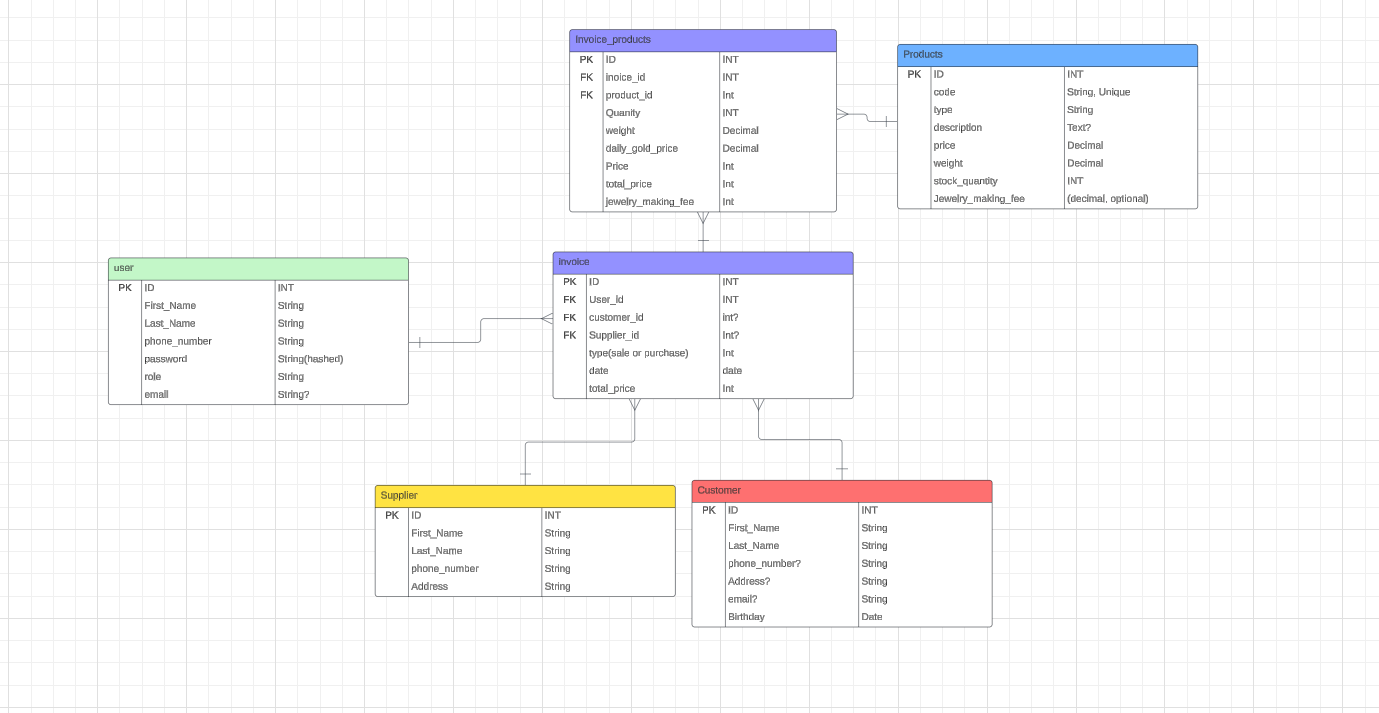
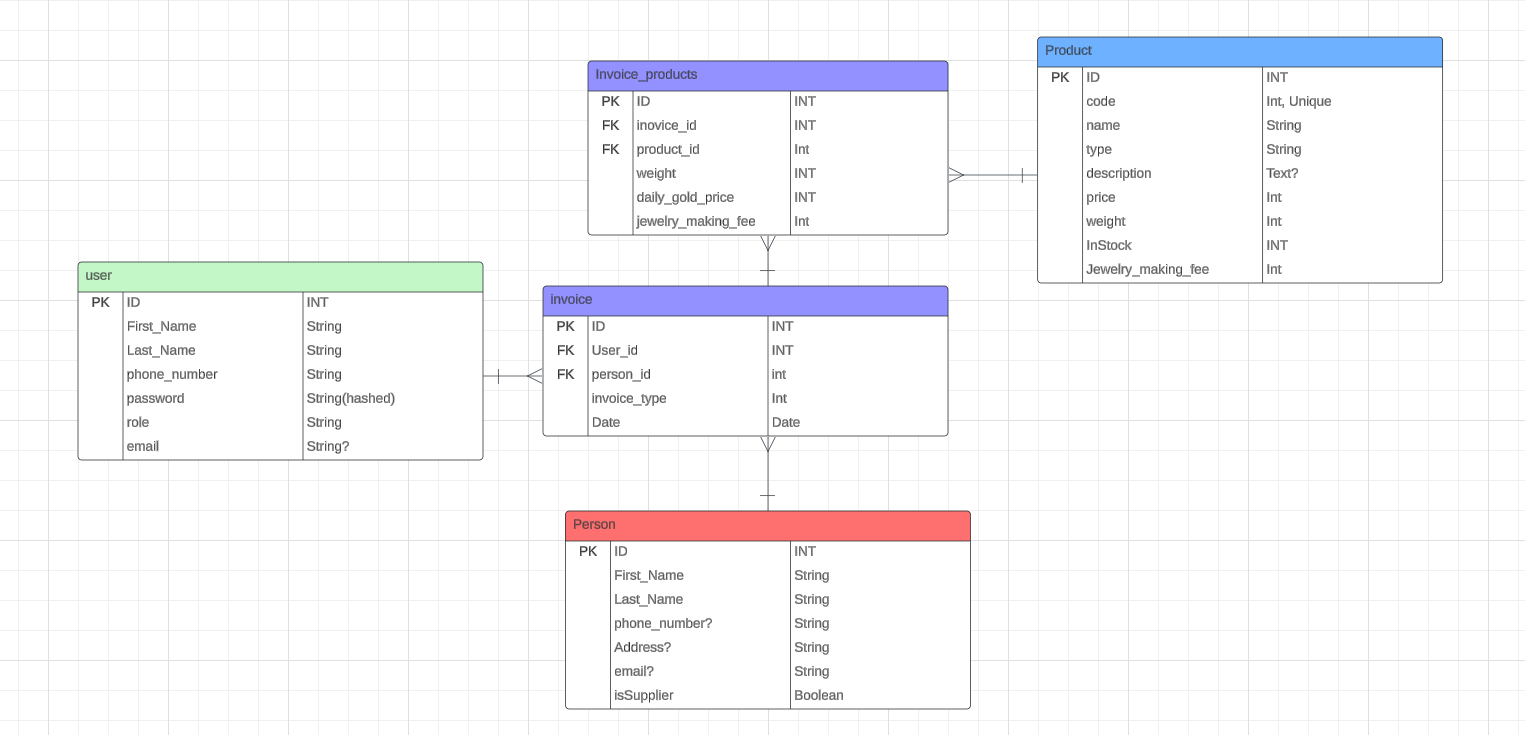
ERD, schema.prisma, seed, updated

Changed region(s): [[0.0, 0.0309, 1.0, 1.0], [0.686, 0.864, 0.7172, 0.8948], [0.5925, 0.2777, 0.6236, 0.3086]]

diff --git a/server/prisma/seed.js b/server/prisma/seed.js
@@ -1,8 +1,9 @@
 import { PrismaClient } from "@prisma/client";
 import bcrypt from "bcrypt";
-import { dailyGoldPriec } from "../src/utilis/dailyGoldPrice.js";
-const DGP = dailyGoldPriec;
+const DGP = 50;
 const prisma = new PrismaClient();
+
+const date = new Date();
 
 async function seed() {
   const admin = await createUser(
@@ -13,66 +14,80 @@ async function seed() {
     "F.Bagdeli13@gmail.com"
   );
 
-  const supplier = await createSupplier(
-    "supllierFirstName",
-    "supllierfamilyName",
-    "023456789",
-    "Earth,europe"
-  );
-
-  const customer = await createCustomer(
+  const personSale = await createPerson(
     "customerFirstName",
     "customerLastName",
     "034567891",
     "customerAddress",
-    "custommerEmail@test.test"
+    "custommerEmail@test.test",
+    false
   );
+
+  const personSupplier = await createPerson(
+    "supplierFirstName",
+    "supplierLastName",
+    "0234567891",
+    "supplierAddress",
+    "supplierEmail@test.test",
+    true
+  );
+
 
   const product1 = await createProduct(
     "Diamond Ring",
-    "Beautiful ring",
-    3.5,
-    5,
+    "Beautiful Ring",
+    "RING",
+    3,
     7,
-    2000
+    1,
+    200
   );
 
   const product2 = await createProduct(
     "Necklake",
     "Beautiful necklake",
+    "NECKLACE",
     10,
-    2,
-    10,
-    10000,
-    "NECKLACE"
+    10
   );
 
   const product3 = await createProduct(
     "Earring",
-    "Beautiful",
+    "Beautiful Earring",
+    "EARRING",
     1.5,
-    1,
     15,
-    1000,
-    "EARRING"
+    1,
+    300
   );
 
   const invoice = await createInvoice(
     admin.id,
-    customer.id,
-    supplier.id,
+    personSale.id,
     product1.id,
-    1,
     product1.weight,
     DGP,
     product1.jewelryMakingFee,
+    date,
     "SALE"
   );
 
+  const invoice2 = await createInvoice(
+    admin.id,
+    personSupplier.id,
+    product2.id,
+    product2.weight,
+    DGP,
+    product2.jewelryMakingFee,
+    date,
+    "PURCHASE"
+  );
+
+
+
   const invoiceProduct = await createInvoiceProduct(
-    1,
+    invoice.id,
     product1.id,
-    1,
     product1.weight,
     DGP,
     product1.jewelryMakingFee
@@ -103,33 +118,22 @@ async function createUser(
   return user;
 }
 
-async function createSupplier(firstName, lastName, phoneNumber, address) {
-  const supplier = await prisma.supplier.create({
-    data: {
-      firstName,
-      lastName,
-      phoneNumber,
-      address,
-    },
-  });
-  console.log("supplier Created: ", supplier);
-  return supplier;
-}
-
-async function createCustomer(
+async function createPerson(
   firstName,
   lastName,
   phoneNumber,
   address,
-  email
+  email,
+  isSupplier = "false"
 ) {
-  const customer = await prisma.customer.create({
+  const customer = await prisma.person.create({
     data: {
       firstName,
       lastName,
       phoneNumber,
       address,
       email,
+      isSupplier,
     },
   });
 
@@ -140,18 +144,18 @@ async function createCustomer(
 async function createProduct(
   name,
   description,
+  type = "RING",
   weight,
-  quantity,
   jewelryMakingFee,
-  price,
-  type = "RING"
+  inStock = 1,
+  price = calculatePrice(weight, DGP, jewelryMakingFee),
 ) {
   const product = await prisma.product.create({
     data: {
       name,
       description,
       weight,
-      quantity,
+      inStock,
       jewelryMakingFee,
       price,
       type,
@@ -163,34 +167,25 @@ async function createProduct(
 
 async function createInvoice(
   userId,
-  customerId,
-  supplierId,
+  personId,
   productId,
-  quantity,
   weight,
-  dailyGoldPriec,
+  dailyGoldPrice,
   jewelryMakingFee,
-  type = "SALE"
+  date,
+  invoiceType = "SALE"
 ) {
-  const roundedPrice = Math.round(
-    quantity *
-      (weight * dailyGoldPriec +
-        (weight * dailyGoldPriec * (jewelryMakingFee/ 100)))
-  );
   const invoice = await prisma.invoice.create({
     data: {
       userId,
-      customerId,
-      supplierId,
-      totalPrice: roundedPrice,
-      type,
+      personId,
+      date,
+      invoiceType,
       invoiceProduct: {
         create: {
           productId,
-          quantity,
           weight,
-          dailyGoldPriec,
-          price: roundedPrice,
+          dailyGoldPrice,
           jewelryMakingFee,
         },
       },
@@ -206,29 +201,28 @@ async function createInvoice(
 async function createInvoiceProduct(
   invoiceId,
   productId,
-  quantity,
   weight,
-  dailyGoldPriec,
+  dailyGoldPrice,
   jewelryMakingFee
 ) {
-  const roundedPrice = Math.round(
-    quantity *
-      (weight * dailyGoldPriec +
-        (weight * dailyGoldPriec * (jewelryMakingFee/ 100)))
-  );
   const invoiceProduct = await prisma.invoiceProduct.create({
     data: {
       invoiceId,
       productId,
-      quantity,
       weight,
-      dailyGoldPriec,
-      price: roundedPrice,
+      dailyGoldPrice,
       jewelryMakingFee,
     },
   });
   console.log("invoceProduct created: ", invoiceProduct);
+
   return invoiceProduct;
+}
+
+function calculatePrice(weight, dailyGoldPrice, jewelryMakingFee) {
+  return (
+    weight * dailyGoldPrice + weight * dailyGoldPrice * (jewelryMakingFee / 100)
+  );
 }
 
 seed().catch(async (e) => {
